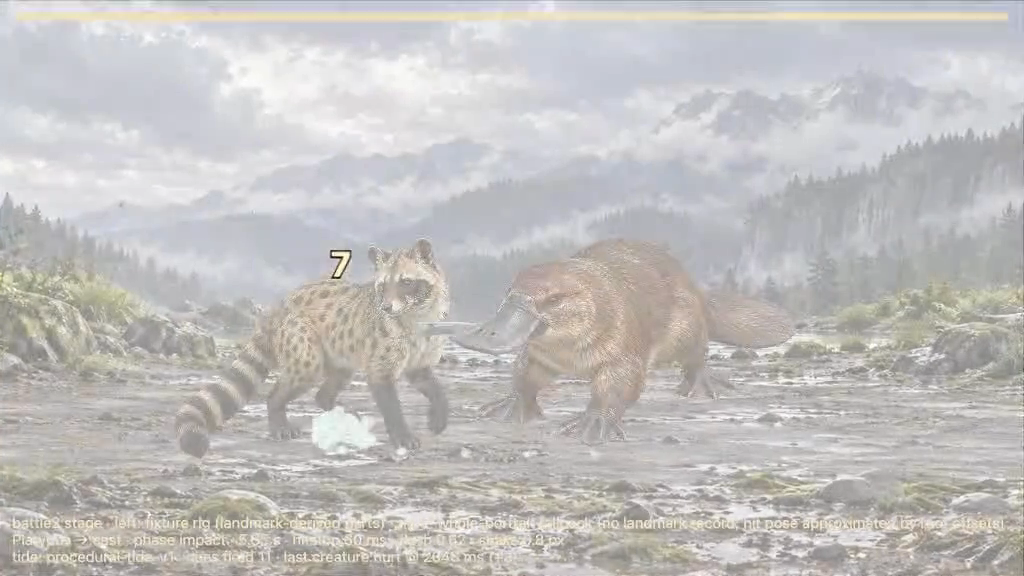
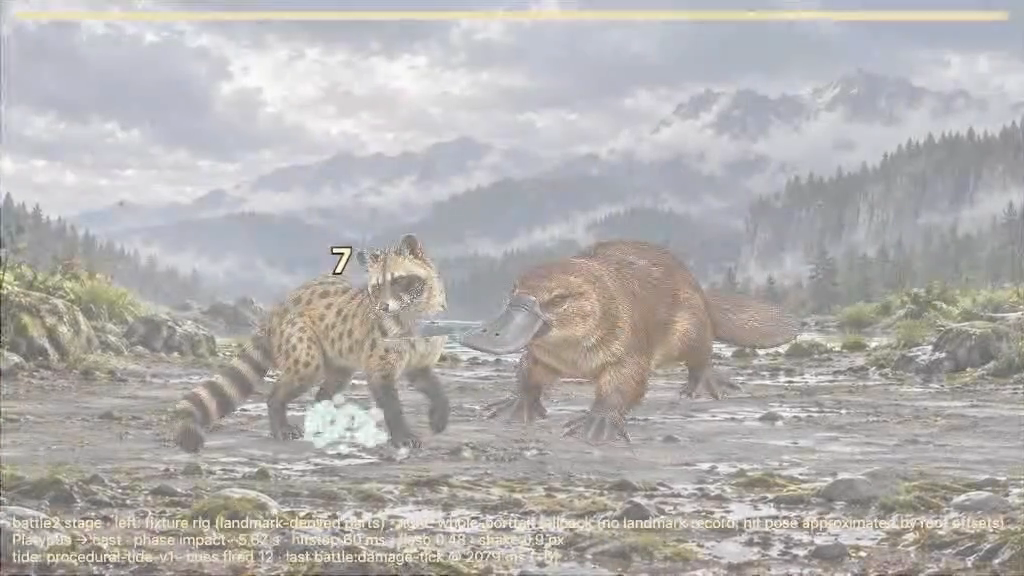
docs: adopt Pack 6 verbatim with delegated impact hold and audio decisions

diff --git a/audits/LONG_SESSION_20260913/LOG-CODEX-PRE-PACK6.md b/audits/LONG_SESSION_20260913/LOG-CODEX-PRE-PACK6.md
@@ -17,8 +17,24 @@ Packages per WORK_ORDER.md. One entry per package on acceptance: commit, evidenc
 
 The full `vitest run` on this tree has 24 failing tests in 12 files. All 24 fail identically on Codex's committed head openai/mac 1e65e006 (verified in a temporary detached checkout of that exact commit, then removed): app-chrome-main-wiring (3), compendium-budget (2), current-producer-authorities (suite), evidence-build-runtime (2, needs the evidence build with onnxruntime), exceptional-crafting-evidence-contract (2), guide-release (1), painted-earth-mount-ownership (12), pwa-offline (1), slicesmoke-sixth-red-contract (1), and three `node:test` .mjs files under tools/ that vitest collects with 0 tests. None is caused by the merge or by packages A1 to A6. They belong to Codex's lane (C5 pruning and exact-head admission) and are recorded here so nobody mistakes them for new reds.
 | A7 pose editor | accepted (mechanical); Dakk's tool | 20f50f70 | audits/LONG_SESSION_20260913/a7-pose-editor/capture-01/; 11 tests |
-| B1–B4 batch 2 | built and green (typecheck 0; 26 suites / 220 tests; root validate PASS); live capture REVIEW (602 frames, cues within one frame of their beats; found and fixed the frozen particle count and the pale-on-pale disc); Dakk's eye open on the four B3 sheets and the capture; audio port and impact hold decided on Dakk's delegation (LOG-B.md) | see git log | audits/LONG_SESSION_20260913/LOG-B.md; b3-family-sheets/; b-batch-capture/proof-run-01/ (A1 procedural evidence refreshed) |
+| B1–B4 batch 2 | built and green (typecheck 0; 26 suites / 220 tests; root validate PASS); live capture REVIEW (602 frames, cues within one frame of their beats; found and fixed the frozen particle count and the pale-on-pale disc); Dakk's eye open on the four B3 sheets and the capture; main.ts audio port is Dakk's call | see git log | audits/LONG_SESSION_20260913/LOG-B.md; b3-family-sheets/; b-batch-capture/proof-run-01/ (A1 procedural evidence refreshed) |
 | A11 family motion templates | accepted (mechanical); synthetic landmarks, not anatomy evidence; myriapod, cephalopod, flyer-membrane, primate built in B3 (LOG-B.md) | see git log | audits/LONG_SESSION_20260913/a11-family-sheets/ (nine sheets, byte-identical on re-run); 54 motion tests |
 
 - 2026-09-13 Wild second intake reviewed: travel ACCEPT, impact TARGETED INTAKE FIX (two clusters), registration ACCEPT, no further erosion; response in audits/WILD_V43_PROOF_20260913/second-pass/.
 - 2026-09-13 Wild targeted impact pass reviewed: both clusters ACCEPT (tuft rose streak and leaf rim are master paint; my second-pass read corrected); C1 mechanical intake complete pending Dakk's eye; response in audits/WILD_V43_PROOF_20260913/targeted-pass/.
+
+## Codex Pack5 continuation
+
+Packet committed verbatim0341be68; prior local LOG retained verbatim before overwrite. C1
+mechanically complete; Dakk final image acceptance. No further Wild correction. C2 independent
+fox22-part atlas has0changedoffline rest/packed channels. Added optional winning-painter RGBA
+part ownership capture and hash-bound intake, with negative controls. Native fox rest and fresh
+procedural record/mask emission are next on committed source. Motion root-broadcast producer
+mismatch remains pending owner fix; protected Claude paths untouched. No C2 completion claim,
+C3 source, kit/main.ts edit or GitHub write.
+
+C2 continuation signing attempt failed:1Password agent returned an error. Work remains staged,
+not committed; native fox/painter checks have not run. HEAD0341be68 verified signed,83ahead
+upstream/194aheadcacheddevelop. Rootvalidate, v2typecheck,9focused Vitest and3node tests pass.
+Dakk was asked to unlock/approve signing. Producer review prompt remains available; neither
+GitHub nor another agent's protected source was touched.

diff --git a/audits/LONG_SESSION_20260913/LOG-B.md b/audits/LONG_SESSION_20260913/LOG-B.md
@@ -67,3 +67,12 @@ Two defects the capture exposed, both fixed here with negative-controlled tests:
 What the frames show now: the Wild sweep and impact draw registered from the Civet to the Platypus and the tide launch blob, trail and impact splash are visible at the stands. Two things for Dakk's eye, not changed here: (a) the impact phase ends with the flash (kit §5: two white frames + 120 ms fade; the impact track is `hitstop + flashFade` long), so the painted impact is mostly seen through the white; a longer impact hold after the flash would read better and is a kit timing wording; (b) this worktree still carries the v4.2 Wild masters (blue-tinted travel), because the v4.3 sequence lives in Codex's lane; the capture is the mechanism, not the art.
 
 A1 evidence refresh: `a1-pose-sheets/procedural.{body-card,timelines,pose-sheet}` were stale from before the record-first material flip (they still said `genome skin "translucent" overrides record surface "fur"`). Regenerated from the same audit fixtures (`audits/CIVET_2D_PROOF_20260912/captures/procedural-resolved-anatomy.json` + `procedural-genome.json`): the card now reads `furred` from the record with the observer-disagreement note, as CONTRACTS §5 says; civet and fox sheets were already current.
+
+## Dakk's two delegated decisions (2026-09-13, "do what you think is best")
+
+1. **Audio port.** `TameGreetingAudioOwner.decorativeVoicePort()` (new): returns `{ playVoice }`. It admits only `meaning.kind === 'decorative'` requests, and only while the owner is live, visible and answerable with the master policy on; every accepted request still goes through the runtime's own admission (activation, mute, cooldown, concurrency, budgets). Nothing arms, claims or counterparts, so the study can never make a sound the accessible owner would not. `main.ts` passes it in the one gated battle2 line (`audio: tameGreetingAudioOwner?.decorativeVoicePort() ?? null`). Test in `tame-greeting-audio.test.ts`: cold runtime refuses on its own, a combat gesture activates and a decorative cue starts and shows in the runtime's voice ids, meaningful and malformed requests refuse `invalid-request`, hidden / not answerable / disposed refuse `not-running`, a sound-off policy refuses `muted`.
+2. **Impact hold.** `MOTION_KIT_TIMING.impactHold = 240`: the impact image now holds 240 ms after the hitstop and then fades over the flash's 120, so the painted impact reads after the white instead of under it. Kit §5 gained the row; the choreography's idle start already follows the effect end, so nothing else moved. Sequencer tests pin the hold and the fade.
+
+A third capture finding came with the refresh: the effect player armed its ms 0 on its own first tick, so a jumped or skipped frame (the runner's `reset(); frame(ms)` beat frames) rendered the effect at its start instead of at the right time. `EffectSequencePlayerOptions.startAtMs` (the stage passes the action start on the turn clock) fixes it; tested with a late first tick landing in the impact phase versus the old first-tick arming.
+
+Capture refreshed after all three (`b-batch-capture/proof-run-01/`, same runner): the impact +170 frames now show the painted Wild impact and the tide splash after the flash has cleared, in both the continuous video and the runner's jumped beat frames.

diff --git a/MOTION_KIT.md b/MOTION_KIT.md
@@ -4,6 +4,8 @@ Motion direction and animation contract, PROPOSED version 1, 2026-09-12. Compani
 
 Each section is plain text inside a fenced block. Sections 1 and 2 are frozen once approved; section 3 is filled by the compiler from the resolved-anatomy record; sections 4 to 7 are the closed action, timing, secondary-motion and staging vocabularies.
 
+Matches code as of 2026-09-13 (see Implementation at the end; sections 1, 2, 5 and 6 are Dakk's wording and are not touched by that note).
+
 ## 0. How to use
 
 ```text
@@ -159,6 +161,8 @@ Never below 60 percent of base on tiny bodies; never above 200 percent.
   hitstop          70 on the target and attacker, scaled by the ATTACKER's
                    mass class, capped 140
   flash            two frames white on the target, then 120 fade
+  impact hold      the impact image holds 240 after the hitstop, then fades
+                   over the flash's 120, so it reads after the white, not under it
   shake            amplitude 6 px at mass 1.00 for 180, decaying
   damage number    pop 90 (back-out), rise 420, fade last 160
   timing bar       fills in game-owned turn time; the bar's motion uses
@@ -271,3 +275,7 @@ LOOT and INVENTORY: pickup pop 90 back-out; reveal flourish scaled by rarity
   e. Then freeze sections 1, 2, 5, 6; templates grow only by adding a
      template with its own proof.
 ```
+
+## Implementation
+
+Matches code as of 2026-09-13. The kit is implemented in `port/v2/apps/game/src/motion/` (body-card compiler `compileBodyCard`, template library `templates.ts`, action library `actions.ts`, timing table `timing.ts`, material secondary motion `secondary.ts`, timeline builder `timeline.ts`, GSAP player `gsap-adapter.ts`, budget guard `budget.ts`); staging by surface in `battle2/` (arena, choreography, stage, fixture and portrait rigs) and `worldlife/` (plate life); effects in `effects/`. Materials follow CONTRACTS §5: the resolved-anatomy record wins, the genome's FA_SKIN fills in only when the record omits a surface, and either case is written to `card.notes`. Live wiring is flag-gated (`?battle2=1`, `?worldlife=1`) through `battle2-wiring.ts` and `worldlife-wiring.ts`; the default game path is unchanged. Every §4 template has a library (`family-templates.ts`, `family-actions.ts`; the four added in batch 2 are proven on synthetic fixtures only). Every ability theme stages an effect on the strike beat: Wild its painted sequence, the other ten a labelled procedural emitter in the theme's §4K material colour (`effects/theme-library.ts`) until their sequences are painted. Sound cues ride the same beats (`battle2/cue-plan.ts`). The §5 impact hold (240 after the hitstop) was added 2026-09-13 on Dakk's delegation after the batch-2 capture showed the painted impact disappearing with the flash. Not yet implemented: the C2 parts rig (the battle stage uses the labelled fixture rig), turns synchronised to the Chronicle cue cadence, arena selection beyond the one accepted temperate arena, resident idle life and foliage sway on landfalls, the `tame`/`feed`/victory-split rows (A1 defaults in `timing.ts`, a wording decision), and a measured §8 update-time budget (the guard is structural).

diff --git a/SOUND_KIT.md b/SOUND_KIT.md
@@ -4,6 +4,8 @@ Sound direction and audio contract, PROPOSED version 1, 2026-09-12. Companion to
 
 Each section is plain text inside a fenced block. Sections 1 and 2 are frozen once approved; section 3 is filled by the compiler; section 4 is the closed cue vocabulary.
 
+Matches code as of 2026-09-13 (see Implementation at the end; sections 1, 2, 5 and 6 are Dakk's wording and are not touched by that note).
+
 ## 0. How to use
 
 ```text
@@ -190,3 +192,7 @@ bed under 400 KB, a music piece under 1.2 MB.
   e. Then freeze sections 1, 2, 5 and 6; sources grow only by adding a
      named set with its own listening review.
 ```
+
+## Implementation
+
+Matches code as of 2026-09-13. The kit is implemented in `port/v2/apps/game/src/soundkit/` (voice-card compiler `voice-card.ts`, deterministic derivation `derive.ts` over the pure DSP in `dsp.ts`, the closed cue registry `cues.ts`, mix and ducking integration `mix.ts`, WAV output `wav.ts`, the browser hand-off `browser-adapter.ts`, and the labelled non-shippable `placeholder-archetype.ts`). The voice card reads `record.materials.surface` first and the genome's FA_SKIN only when the record omits it (CONTRACTS §5). Battle and ability cues render through a labelled placeholder synth (`battle-synth.ts`, all 33 ability and 16 battle ids, never shippable) and ride the turn beats through `battle2/cue-plan.ts` and `turn-audio.ts` (one buffer-source request per cue through the mix policy into the runtime's own admission; `main.ts` hands the study the accessible owner's `decorativeVoicePort()`, which passes only decorative requests and only while the owner is live, visible, answerable and the policy is on). Not yet implemented: the recorded source sets of CONTRACTS §1 (C3; every voice so far is derived from the placeholder archetype and is not shippable), derivation for ambience, space, economy, ui and music cue ids (registered and mixed, no recipes yet), a measured LUFS gate (only peak is enforced), and true formant/WSOLA processing (the current filters are documented approximations in `dsp.ts`).
